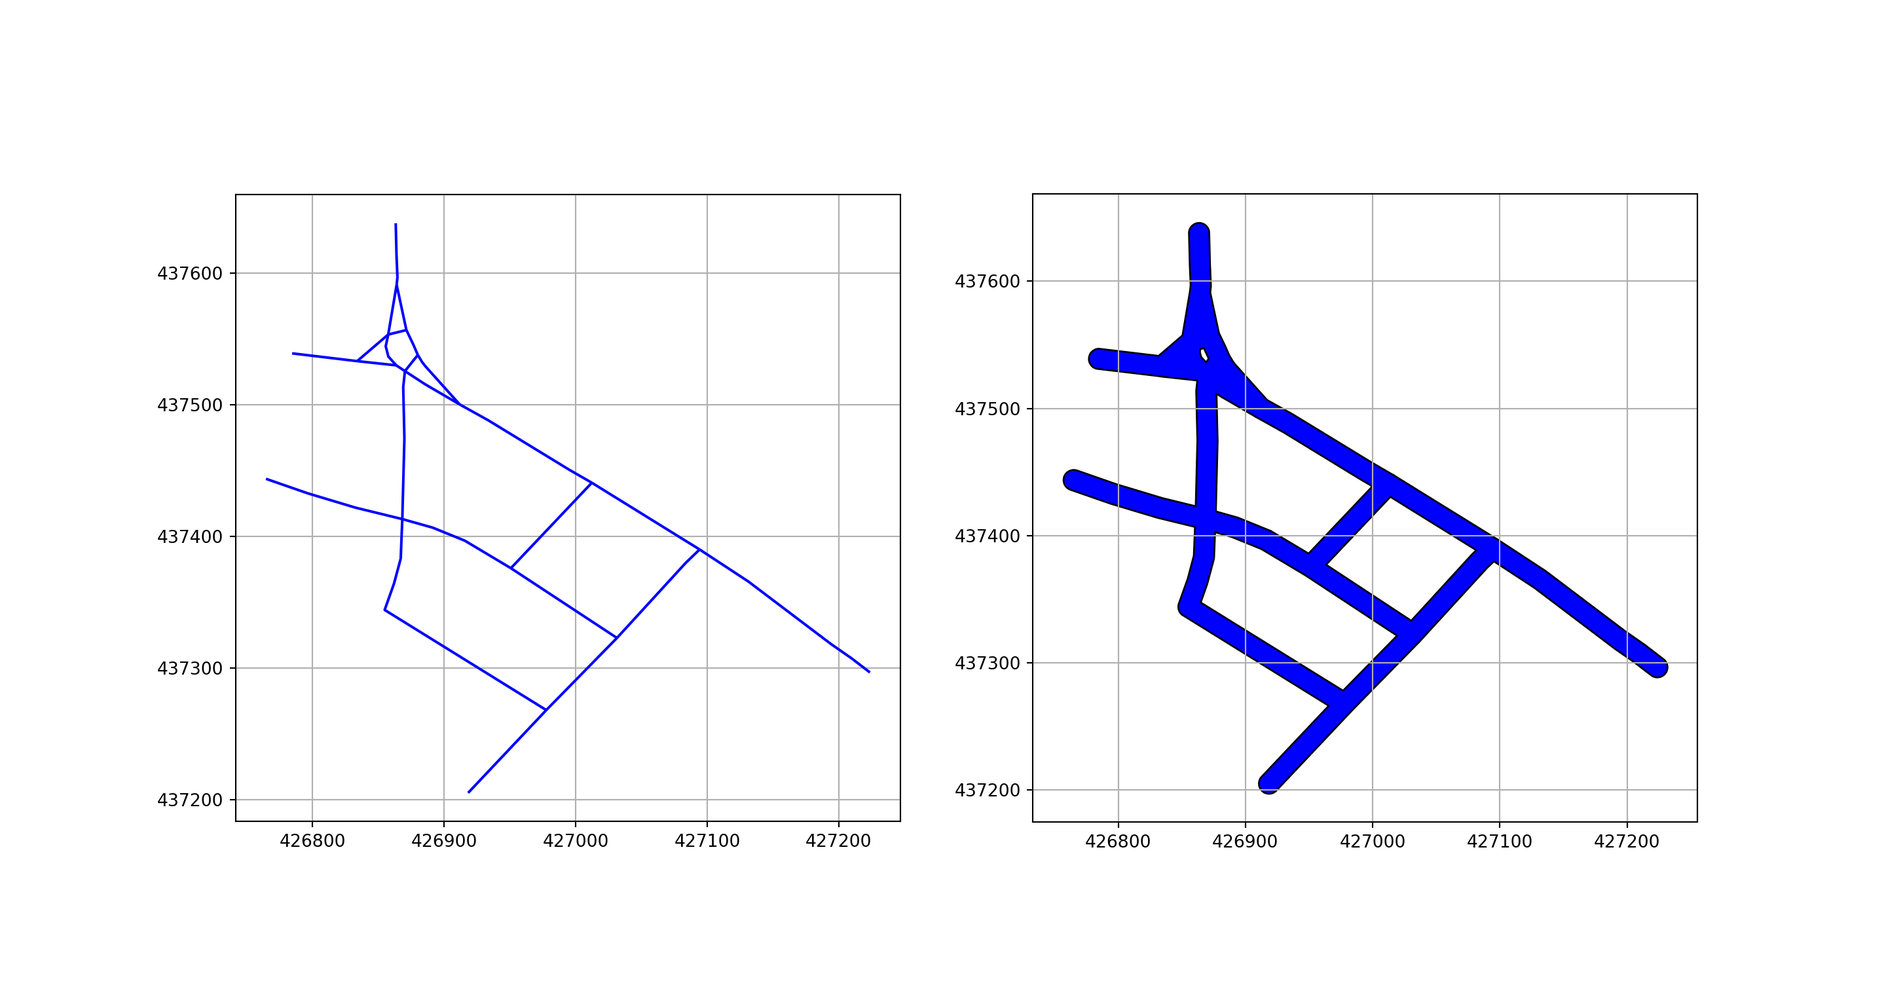
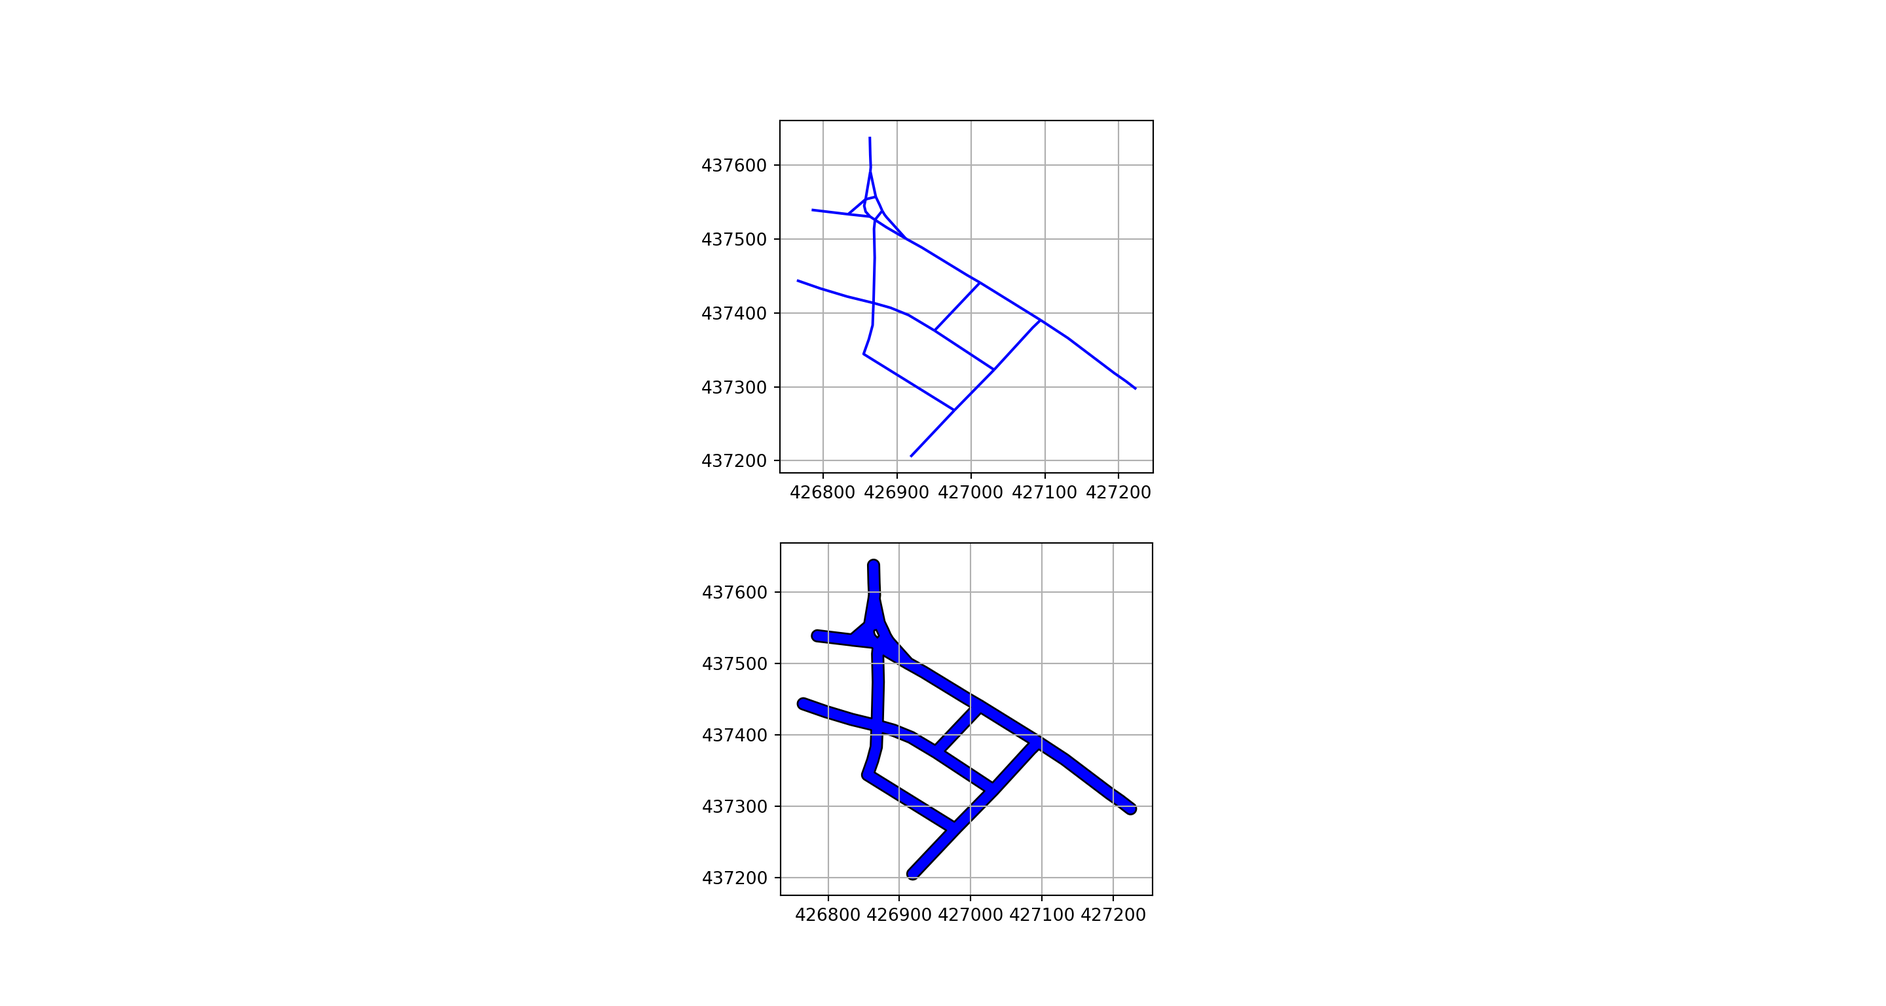
Built site for gh-pages

diff --git a/paper.html b/paper.html
@@ -385,7 +385,7 @@ Much has been written about network 'cleaning' and simplification as a pre-proce
 <p>Table&nbsp;1: Input datasets used in this paper.</p>
 </div>
 <div class="quarto-layout-row quarto-layout-valign-top">
-<div id="tbl-input-data" class="cell quarto-layout-cell quarto-layout-cell-subref anchored" data-hash="paper_cache/html/tbl-input-data_03427ef457212658d16e8873ba159e60" data-ref-parent="tbl-input-data" style="flex-basis: 100.0%;justify-content: center;">
+<div id="tbl-input-data" class="cell quarto-layout-cell quarto-layout-cell-subref anchored" data-ref-parent="tbl-input-data" style="flex-basis: 100.0%;justify-content: center;">
 <div class="cell-output-display">
 <table class="table table-sm table-striped small">
 <colgroup>
@@ -425,7 +425,7 @@ Much has been written about network 'cleaning' and simplification as a pre-proce
 <p>The input datasets are illustrated in <a href="#fig-input-data">Figure&nbsp;3</a>.</p>
 <div id="fig-input-data" class="quarto-figure quarto-figure-center anchored">
 <figure class="figure">
-<div class="cell" data-hash="paper_cache/html/unnamed-chunk-6_0a4b50c165fd47231c179fbc3ae4b21a">
+<div class="cell">
 <div class="cell-output-display">
 <p><img src="paper_files/figure-html/unnamed-chunk-6-1.png" class="img-fluid figure-img" width="672"></p>
 </div>
@@ -457,7 +457,7 @@ In this paper we will focus on the former approach, which assumes that a simplif
 <div id="fig-topology-preserving" class="quarto-layout-panel">
 <figure class="figure">
 <div class="quarto-layout-row quarto-layout-valign-top">
-<div class="cell quarto-layout-cell" data-hash="paper_cache/html/unnamed-chunk-7_24a6bc50b999dd3c6a8e883f595edc97" style="flex-basis: 100.0%;justify-content: center;">
+<div class="cell quarto-layout-cell" style="flex-basis: 100.0%;justify-content: center;">
 <div class="cell-output-display">
 <p><img src="paper_files/figure-html/unnamed-chunk-7-1.png" class="img-fluid figure-img" width="672"></p>
 </div>
@@ -474,11 +474,11 @@ In this paper we will focus on the former approach, which assumes that a simplif
 <section id="create-a-projected-combined-buffered-geometry" class="level3" data-number="4.1.3">
 <h3 data-number="4.1.3" class="anchored" data-anchor-id="create-a-projected-combined-buffered-geometry"><span class="header-section-number">4.1.3</span> Create a projected combined buffered geometry:</h3>
 <p>In both approaches, the network simplification process initiates with the generation of buffered geometries, achieved using the get_geometry_buffer function. A buffer size of 8 meters is selected for this purpose. These buffered geometries are essential for spatial analyses as they extend the influence area of each geometry, thereby facilitating the identification and processing of geometries that intersect or lie adjacent to each other in subsequent stages of the analysis.</p>
-<p>The street network that requires simplification and the corresponding buffered network are presented as follows:</p>
+<p>The buffered versions of the networks are presented below:</p>
 <div id="fig-buffered-network" class="quarto-layout-panel">
 <figure class="figure">
 <div class="quarto-layout-row quarto-layout-valign-top">
-<div class="cell quarto-layout-panel quarto-layout-cell" data-hash="paper_cache/html/unnamed-chunk-9_de063c2fd98ab5355e23d09a3c4e41d7" style="flex-basis: 100.0%;justify-content: center;">
+<div class="cell quarto-layout-panel quarto-layout-cell" style="flex-basis: 100.0%;justify-content: center;">
 <div class="quarto-layout-row quarto-layout-valign-top">
 <div class="cell-output-display quarto-layout-cell" style="flex-basis: 50.0%;justify-content: center;">
 <div class="quarto-figure quarto-figure-center">
@@ -509,7 +509,7 @@ In this paper we will focus on the former approach, which assumes that a simplif
 <p>The affine transformations for Rasterio and Shapely are demonstrated with a scaling factor of 2.0. The Rasterio transform applies a scale and translation in a specific order, while the Shapely transform follows a different order for scaling and rotation.</p>
 <section id="rasterio-transform" class="level4" data-number="4.1.5.1">
 <h4 data-number="4.1.5.1" class="anchored" data-anchor-id="rasterio-transform"><span class="header-section-number">4.1.5.1</span> Rasterio transform</h4>
-<div class="cell" data-hash="paper_cache/html/unnamed-chunk-11_7f469853be29b1c35f69f23b7ae5d990">
+<div class="cell">
 <div class="cell-output cell-output-stdout">
 <pre><code>|     |      |        |
 |----:|-----:|-------:|
@@ -521,7 +521,7 @@ In this paper we will focus on the former approach, which assumes that a simplif
 </section>
 <section id="shapely-transform" class="level4" data-number="4.1.5.2">
 <h4 data-number="4.1.5.2" class="anchored" data-anchor-id="shapely-transform"><span class="header-section-number">4.1.5.2</span> Shapely transform</h4>
-<div class="cell" data-hash="paper_cache/html/unnamed-chunk-12_4d536b8a3809ce2c1ae89fa0762624bf">
+<div class="cell">
 <div class="cell-output cell-output-stdout">
 <pre><code>|     |      |        |
 |----:|-----:|-------:|
@@ -535,19 +535,19 @@ In this paper we will focus on the former approach, which assumes that a simplif
 <section id="skeletonize-the-buffer-to-a-point-geometry" class="level3" data-number="4.1.6">
 <h3 data-number="4.1.6" class="anchored" data-anchor-id="skeletonize-the-buffer-to-a-point-geometry"><span class="header-section-number">4.1.6</span> Skeletonize the buffer to a point geometry</h3>
 <p>A scaled affine transformation is applied to align the projected coordinate geometry with the scaled raster image. This transformation adjusts the geometry to match the raster’s scale and orientation. Following this, the raster image undergoes a cleaning process to eliminate small holes that often appear in areas where buffered lines run parallel or intersect at shallow angles. This step ensures a more coherent and accurate representation in the raster image.</p>
-<div class="cell" data-hash="paper_cache/html/unnamed-chunk-13_f823d784f6f0a7fec63c9a0c167f99de">
+<div class="cell">
 <div class="cell-output-display">
 <p><img src="paper_files/figure-html/unnamed-chunk-13-3.png" class="img-fluid" width="672"></p>
 </div>
 </div>
 <p>The image undergoes a thinning process, yielding a skeletal raster image as the result. This skeletonized image effectively captures the essential structure and layout of the original network.</p>
-<div class="cell" data-hash="paper_cache/html/unnamed-chunk-14_ce3e1c46b952bcc03b12946a78d25737">
+<div class="cell">
 <div class="cell-output-display">
 <p><img src="paper_files/figure-html/unnamed-chunk-14-5.png" class="img-fluid" width="672"></p>
 </div>
 </div>
 <p>The rasterized skeletal image is then converted back into point geometry, completing the transformation process. The rasterized skeletal image is then converted back into point geometry, completing the transformation process.</p>
-<div class="cell" data-hash="paper_cache/html/unnamed-chunk-15_acc812d9d4e00fc68dce90d0f59511c8">
+<div class="cell">
 <div class="cell-output-display">
 <p><img src="paper_files/figure-html/unnamed-chunk-15-7.png" class="img-fluid" width="672"></p>
 </div>
@@ -560,7 +560,7 @@ In this paper we will focus on the former approach, which assumes that a simplif
 <p>The process of transforming point geometry into line geometry involves several key steps. Initially, the point set, derived from a skeletonized image, is analysed to identify adjacent points. Adjacency is determined based on proximity within the raster coordinate system, usually within a 1x1 pixel square.</p>
 <p>Once adjacent points are identified, line segments are created by connecting these points. The final and crucial step is the amalgamation of these individual line segments. This combination results in a continuous line geometry that represents the simplified network structure. This conversion from point to line geometry is a pivotal aspect of network simplification.</p>
 <p>To visualize the simplified network in its original spatial context, it is necessary to apply the reverse affine transformation. This step reverts the network back to its original coordinate system, aligning the simplified geometry with the original spatial framework.</p>
-<div class="cell" data-hash="paper_cache/html/unnamed-chunk-17_ffcd5f9d05c6d24218590f7c3e2b7f45">
+<div class="cell">
 <div class="cell-output-display">
 <p><img src="paper_files/figure-html/unnamed-chunk-17-9.png" class="img-fluid" width="672"></p>
 </div>
@@ -570,7 +570,7 @@ In this paper we will focus on the former approach, which assumes that a simplif
 <h3 data-number="4.1.8" class="anchored" data-anchor-id="knots"><span class="header-section-number">4.1.8</span> Knots</h3>
 <p>Knots in the network often manifest as multiple short segments at intersections, resembling tangled knots.</p>
 <p>To address these, short segments are clustered together, and a central point for each cluster is determined. The end-points of longer lines that connect to these segment clusters are then realigned to the cluster’s central point. This process effectively removes the knot-like appearance. As with previous steps, the reverse affine transformation is applied to the simplified network before plotting, ensuring the network is represented in its original spatial context.</p>
-<div class="cell" data-hash="paper_cache/html/unnamed-chunk-18_737aff2807a907df69d882f37c5a1e32">
+<div class="cell">
 <div class="cell-output-display">
 <p><img src="paper_files/figure-html/unnamed-chunk-18-11.png" class="img-fluid" width="672"></p>
 </div>
@@ -579,7 +579,7 @@ In this paper we will focus on the former approach, which assumes that a simplif
 <section id="primal-network" class="level3" data-number="4.1.9">
 <h3 data-number="4.1.9" class="anchored" data-anchor-id="primal-network"><span class="header-section-number">4.1.9</span> Primal network</h3>
 <p>There are circumstances where it might be beneficial to view a “primal” network, which is exclusively composed of direct lines connecting start and end points.</p>
-<div class="cell" data-hash="paper_cache/html/unnamed-chunk-20_c8f19d63fb75fe8f333d9739910e8c2e">
+<div class="cell">
 <div class="cell-output-display">
 <p><img src="paper_files/figure-html/unnamed-chunk-20-13.png" class="img-fluid" width="672"></p>
 </div>
@@ -592,7 +592,7 @@ In this paper we will focus on the former approach, which assumes that a simplif
 <section id="boundary" class="level3" data-number="4.2.1">
 <h3 data-number="4.2.1" class="anchored" data-anchor-id="boundary"><span class="header-section-number">4.2.1</span> Boundary</h3>
 <p>The get_geometry_line funtion is defined to convert a given geometry into a simplified LineString boundary. The function first extracts the boundary of the input geometry and then simplifies it using a set tolerance level. The result is a GeoSeries of the simplified LineString, correctly aligned with a specified coordinate reference system (CRS). This functionality is particularly useful in geographic information systems (GIS) for delineating and visualizing precise boundaries of spatial objects. The code demonstrates its utility by applying the function to a geometry (nx_geometry) and visualizing the resultant simplified boundaries (nx_boundary), highlighting its practical application in spatial analysis and network simplification.</p>
-<div class="cell" data-hash="paper_cache/html/unnamed-chunk-21_55398de27af0b28dd54670e2d1a5d6b2">
+<div class="cell">
 <div class="cell-output-display">
 <p><img src="paper_files/figure-html/unnamed-chunk-21-15.png" class="img-fluid" width="672"></p>
 </div>
@@ -601,7 +601,7 @@ In this paper we will focus on the former approach, which assumes that a simplif
 <section id="segment" class="level3" data-number="4.2.2">
 <h3 data-number="4.2.2" class="anchored" data-anchor-id="segment"><span class="header-section-number">4.2.2</span> Segment</h3>
 <p>The simplified LineString geometries are then broken down into shorter segments.</p>
-<div class="cell" data-hash="paper_cache/html/unnamed-chunk-22_a1bbb8af791695aff352ab818f4d96aa">
+<div class="cell">
 <div class="cell-output-display">
 <p><img src="paper_files/figure-html/unnamed-chunk-22-17.png" class="img-fluid" width="672"></p>
 </div>
@@ -610,7 +610,7 @@ In this paper we will focus on the former approach, which assumes that a simplif
 <section id="point" class="level3" data-number="4.2.3">
 <h3 data-number="4.2.3" class="anchored" data-anchor-id="point"><span class="header-section-number">4.2.3</span> Point</h3>
 <p>The simplified LineString geometries are converted into point geometries.</p>
-<div class="cell" data-hash="paper_cache/html/unnamed-chunk-23_f0e695699e4559146fc7cb2ec5474b8b">
+<div class="cell">
 <div class="cell-output-display">
 <p><img src="paper_files/figure-html/unnamed-chunk-23-19.png" class="img-fluid" width="672"></p>
 </div>
@@ -619,7 +619,7 @@ In this paper we will focus on the former approach, which assumes that a simplif
 <section id="voronoi" class="level3" data-number="4.2.4">
 <h3 data-number="4.2.4" class="anchored" data-anchor-id="voronoi"><span class="header-section-number">4.2.4</span> Voronoi</h3>
 <p>The Voronoi diagram is generated from nx_point within the bounds of nx_envelope.</p>
-<div class="cell" data-hash="paper_cache/html/unnamed-chunk-24_562e1329e43b344aa63b9cd484fd9a5f">
+<div class="cell">
 <div class="cell-output-display">
 <p><img src="paper_files/figure-html/unnamed-chunk-24-21.png" class="img-fluid" width="672"></p>
 </div>
@@ -627,7 +627,7 @@ In this paper we will focus on the former approach, which assumes that a simplif
 </section>
 <section id="voronoi-2" class="level3" data-number="4.2.5">
 <h3 data-number="4.2.5" class="anchored" data-anchor-id="voronoi-2"><span class="header-section-number">4.2.5</span> Voronoi 2</h3>
-<div class="cell" data-hash="paper_cache/html/unnamed-chunk-25_46b2ce87fa21205d87353872663b0b99">
+<div class="cell">
 <div class="cell-output-display">
 <p><img src="paper_files/figure-html/unnamed-chunk-25-23.png" class="img-fluid" width="672"></p>
 </div>
@@ -635,7 +635,7 @@ In this paper we will focus on the former approach, which assumes that a simplif
 </section>
 <section id="voronoi-simplified-network" class="level3" data-number="4.2.6">
 <h3 data-number="4.2.6" class="anchored" data-anchor-id="voronoi-simplified-network"><span class="header-section-number">4.2.6</span> Voronoi simplified network</h3>
-<div class="cell" data-hash="paper_cache/html/unnamed-chunk-26_6c769ca7adc54c687a92680e70bf199f">
+<div class="cell">
 <div class="cell-output-display">
 <p><img src="paper_files/figure-html/unnamed-chunk-26-25.png" class="img-fluid" width="672"></p>
 </div>
@@ -643,7 +643,7 @@ In this paper we will focus on the former approach, which assumes that a simplif
 </section>
 <section id="voronoi-line" class="level3" data-number="4.2.7">
 <h3 data-number="4.2.7" class="anchored" data-anchor-id="voronoi-line"><span class="header-section-number">4.2.7</span> Voronoi line</h3>
-<div class="cell" data-hash="paper_cache/html/unnamed-chunk-27_c2a30af6dd63c5bccedde8cdcb159364">
+<div class="cell">
 <div class="cell-output-display">
 <p><img src="paper_files/figure-html/unnamed-chunk-27-27.png" class="img-fluid" width="672"></p>
 </div>
@@ -651,7 +651,7 @@ In this paper we will focus on the former approach, which assumes that a simplif
 </section>
 <section id="primal-network-1" class="level3" data-number="4.2.8">
 <h3 data-number="4.2.8" class="anchored" data-anchor-id="primal-network-1"><span class="header-section-number">4.2.8</span> Primal network</h3>
-<div class="cell" data-hash="paper_cache/html/unnamed-chunk-28_27459fcc06028d6903ea24c14503e938">
+<div class="cell">
 <div class="cell-output-display">
 <p><img src="paper_files/figure-html/unnamed-chunk-28-29.png" class="img-fluid" width="672"></p>
 </div>
@@ -687,13 +687,8 @@ In this paper we will focus on the former approach, which assumes that a simplif
 <li><p><strong><code>funs</code></strong> (Function List): Comprises a series of functions assigned to process each attribute during the merge. This may involve applying statistical operations, such as calculating the mean or sum of various attributes. The choice of function for each attribute is determined based on the nature of the data and the specific analytical requirements.</p></li>
 <li><p><strong><code>max_angle_diff</code></strong> (Maximum Angular Difference): This parameter is crucial in regulating the maximum allowable angular deviation between segments and target lines during the merging process. With a set threshold of 20 degrees, it ensures that merging is confined to segments with similar orientations. Such consideration of angular alignment plays a pivotal role in maintaining the network’s geometric integrity. It notably helps in preventing inappropriate attribute transfers, such as avoiding the assignment of values from a road that is perpendicular to another, like in T junction scenarios. By enforcing this restriction on angular differences, the integrity and coherence of the route network’s structure are preserved, ensuring the merged network accurately reflects the true spatial layout and connectivity of the routes.</p></li>
 </ul>
-<div class="quarto-figure quarto-figure-center">
-<figure class="figure">
-<p><img src="pics/Prevent_overestimate_of_values_on_sideroads.png" class="img-fluid figure-img"></p>
-<figcaption class="figure-caption">image</figcaption>
-</figure>
-</div>
-<div class="cell" data-hash="paper_cache/html/unnamed-chunk-31_94915ed415b814f9a587794d360b78f6">
+<!-- ![image](pics/Prevent_overestimate_of_values_on_sideroads.png) -->
+<div class="cell">
 <div class="cell-output-display">
 <p><img src="paper_files/figure-html/unnamed-chunk-31-1.png" class="img-fluid" width="672"></p>
 </div>
@@ -730,7 +725,7 @@ In this paper we will focus on the former approach, which assumes that a simplif
 The graphic below shows a 2 panel plot showing simplification with the `consolidate_intersections` function from the `osmnx` Python package.
 
 ::: {#fig-osmnx-consolidate-intersections layout-ncol="2"}
-::: {.cell hash='paper_cache/html/unnamed-chunk-35_b71b6d1cfb1362e75a07ff9327e035ad'}
+::: {.cell}
 
 :::
 

diff --git a/index.html b/index.html
@@ -591,12 +591,12 @@ In this paper we will focus on the former approach, which assumes that a simplif
 <span id="cb19-38"><a href="#cb19-38" aria-hidden="true" tabindex="-1"></a>base_nx[<span class="st">"geometry"</span>] <span class="op">=</span> base_nx[<span class="st">"geometry"</span>].<span class="bu">map</span>(set_precision_pointone)</span>
 <span id="cb19-39"><a href="#cb19-39" aria-hidden="true" tabindex="-1"></a>nx_geometry <span class="op">=</span> get_geometry_buffer(base_nx[<span class="st">"geometry"</span>], radius<span class="op">=</span>buffer_size)</span></code><button title="Copy to Clipboard" class="code-copy-button"><i class="bi"></i></button></pre></div>
 </div>
-<p>The street network that requires simplification and the corresponding buffered network are presented as follows:</p>
+<p>The buffered versions of the networks are presented below:</p>
 <div id="fig-buffered-network" class="quarto-layout-panel">
 <figure class="figure">
 <div class="quarto-layout-row quarto-layout-valign-top">
 <div class="quarto-layout-cell" style="flex-basis: 100.0%;justify-content: center;">
-<div class="sourceCode cell-code" id="cb20"><pre class="sourceCode python code-with-copy"><code class="sourceCode python"><span id="cb20-1"><a href="#cb20-1" aria-hidden="true" tabindex="-1"></a>fig, axs <span class="op">=</span> plt.subplots(<span class="dv">1</span>, <span class="dv">2</span>, figsize<span class="op">=</span>(<span class="dv">15</span>, <span class="dv">8</span>))</span>
+<div class="sourceCode cell-code" id="cb20"><pre class="sourceCode python code-with-copy"><code class="sourceCode python"><span id="cb20-1"><a href="#cb20-1" aria-hidden="true" tabindex="-1"></a>fig, axs <span class="op">=</span> plt.subplots(<span class="dv">2</span>, <span class="dv">1</span>, figsize<span class="op">=</span>(<span class="dv">15</span>, <span class="dv">8</span>))</span>
 <span id="cb20-2"><a href="#cb20-2" aria-hidden="true" tabindex="-1"></a></span>
 <span id="cb20-3"><a href="#cb20-3" aria-hidden="true" tabindex="-1"></a><span class="co"># Plotting the base network on the first subplot</span></span>
 <span id="cb20-4"><a href="#cb20-4" aria-hidden="true" tabindex="-1"></a>base_nx.plot(ax<span class="op">=</span>axs[<span class="dv">0</span>], edgecolor<span class="op">=</span><span class="st">"blue"</span>, color<span class="op">=</span><span class="st">"blue"</span>)</span>
@@ -1234,12 +1234,7 @@ In this paper we will focus on the former approach, which assumes that a simplif
 <li><p><strong><code>funs</code></strong> (Function List): Comprises a series of functions assigned to process each attribute during the merge. This may involve applying statistical operations, such as calculating the mean or sum of various attributes. The choice of function for each attribute is determined based on the nature of the data and the specific analytical requirements.</p></li>
 <li><p><strong><code>max_angle_diff</code></strong> (Maximum Angular Difference): This parameter is crucial in regulating the maximum allowable angular deviation between segments and target lines during the merging process. With a set threshold of 20 degrees, it ensures that merging is confined to segments with similar orientations. Such consideration of angular alignment plays a pivotal role in maintaining the network’s geometric integrity. It notably helps in preventing inappropriate attribute transfers, such as avoiding the assignment of values from a road that is perpendicular to another, like in T junction scenarios. By enforcing this restriction on angular differences, the integrity and coherence of the route network’s structure are preserved, ensuring the merged network accurately reflects the true spatial layout and connectivity of the routes.</p></li>
 </ul>
-<div class="quarto-figure quarto-figure-center">
-<figure class="figure">
-<p><img src="pics/Prevent_overestimate_of_values_on_sideroads.png" class="img-fluid figure-img"></p>
-<figcaption class="figure-caption">image</figcaption>
-</figure>
-</div>
+<!-- ![image](pics/Prevent_overestimate_of_values_on_sideroads.png) -->
 <div class="cell">
 <div class="sourceCode cell-code" id="cb45"><pre class="sourceCode r code-with-copy"><code class="sourceCode r"><span id="cb45-1"><a href="#cb45-1" aria-hidden="true" tabindex="-1"></a>rnet_xp <span class="ot">=</span> <span class="fu">st_transform</span>(rnet_x, <span class="st">"EPSG:27700"</span>)</span>
 <span id="cb45-2"><a href="#cb45-2" aria-hidden="true" tabindex="-1"></a>rnet_yp <span class="ot">=</span> <span class="fu">st_transform</span>(rnet_y, <span class="st">"EPSG:27700"</span>)</span>
